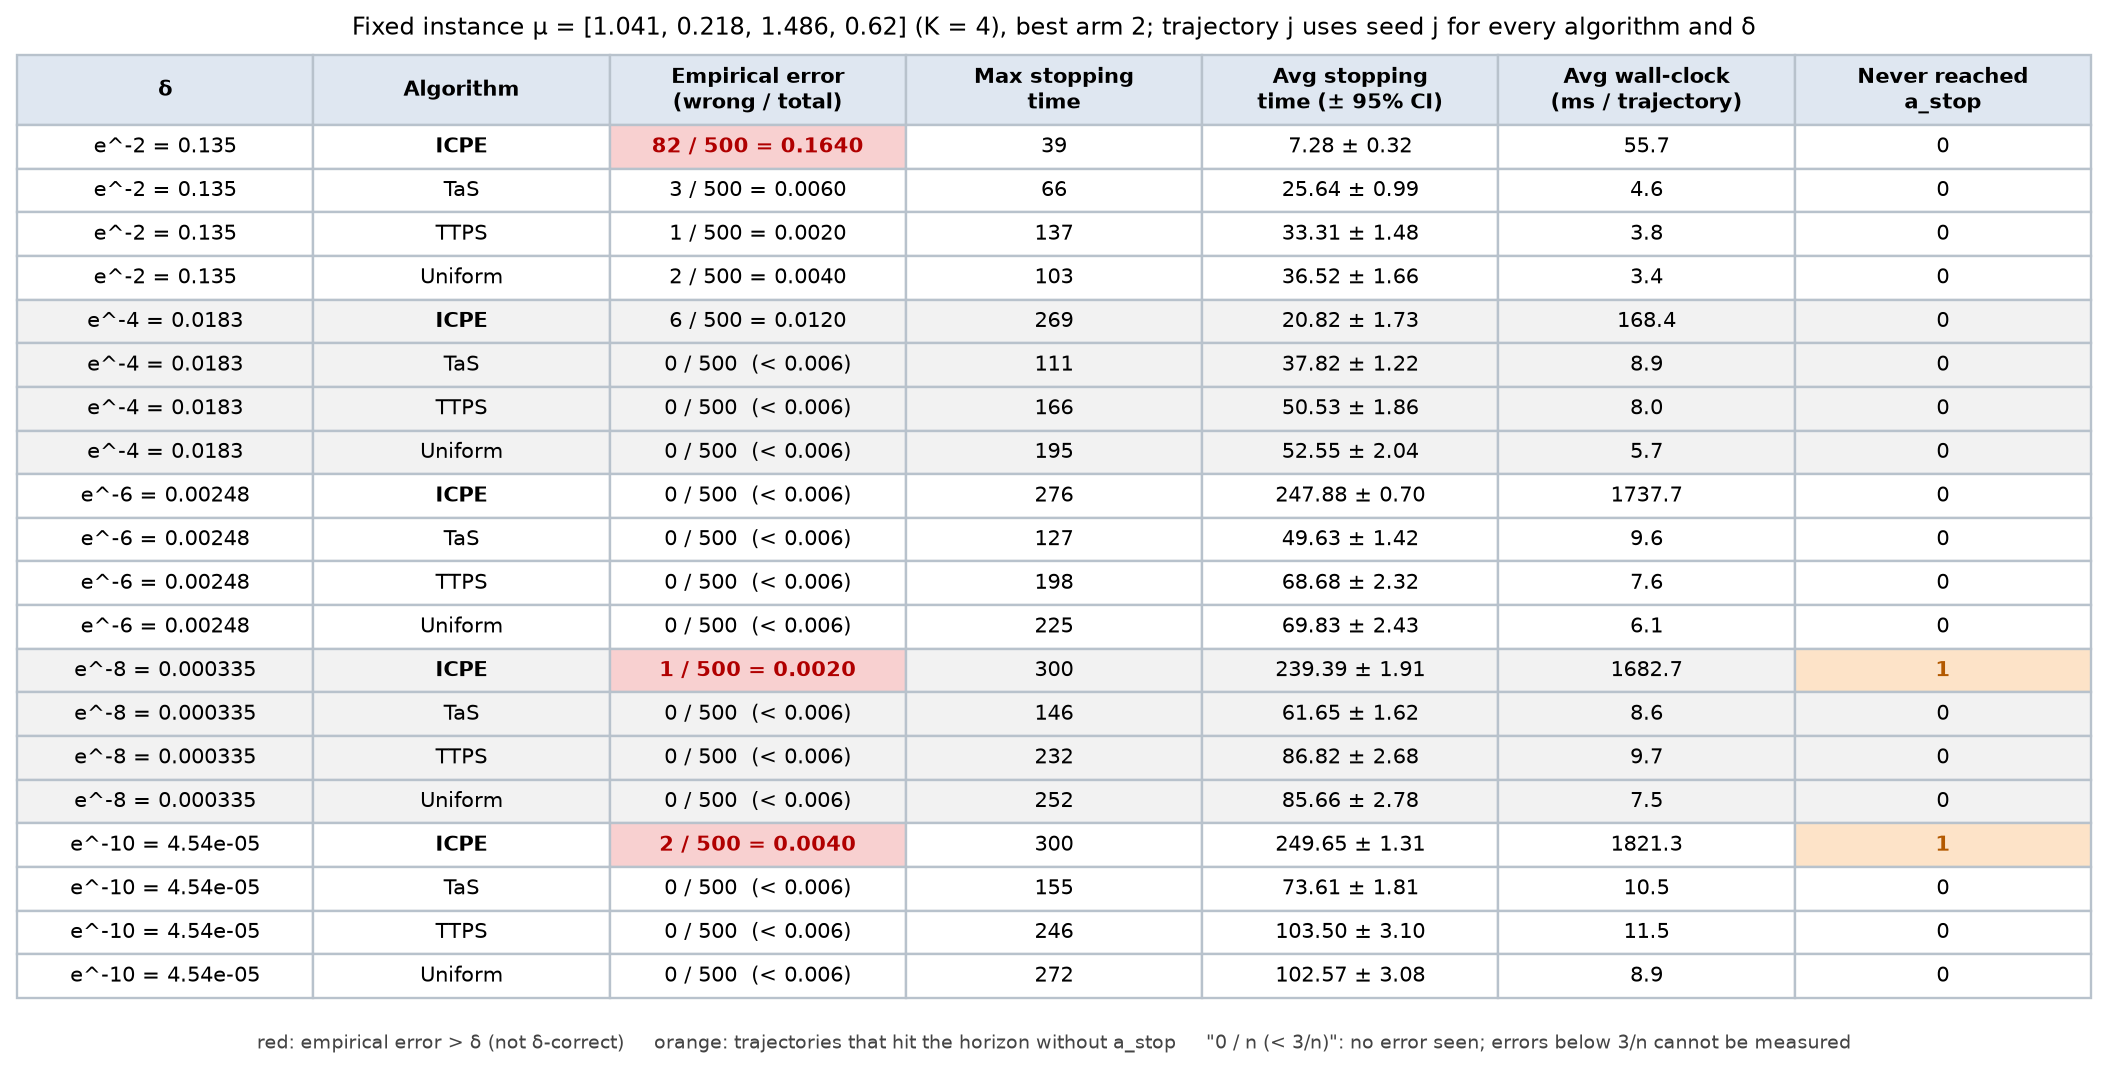
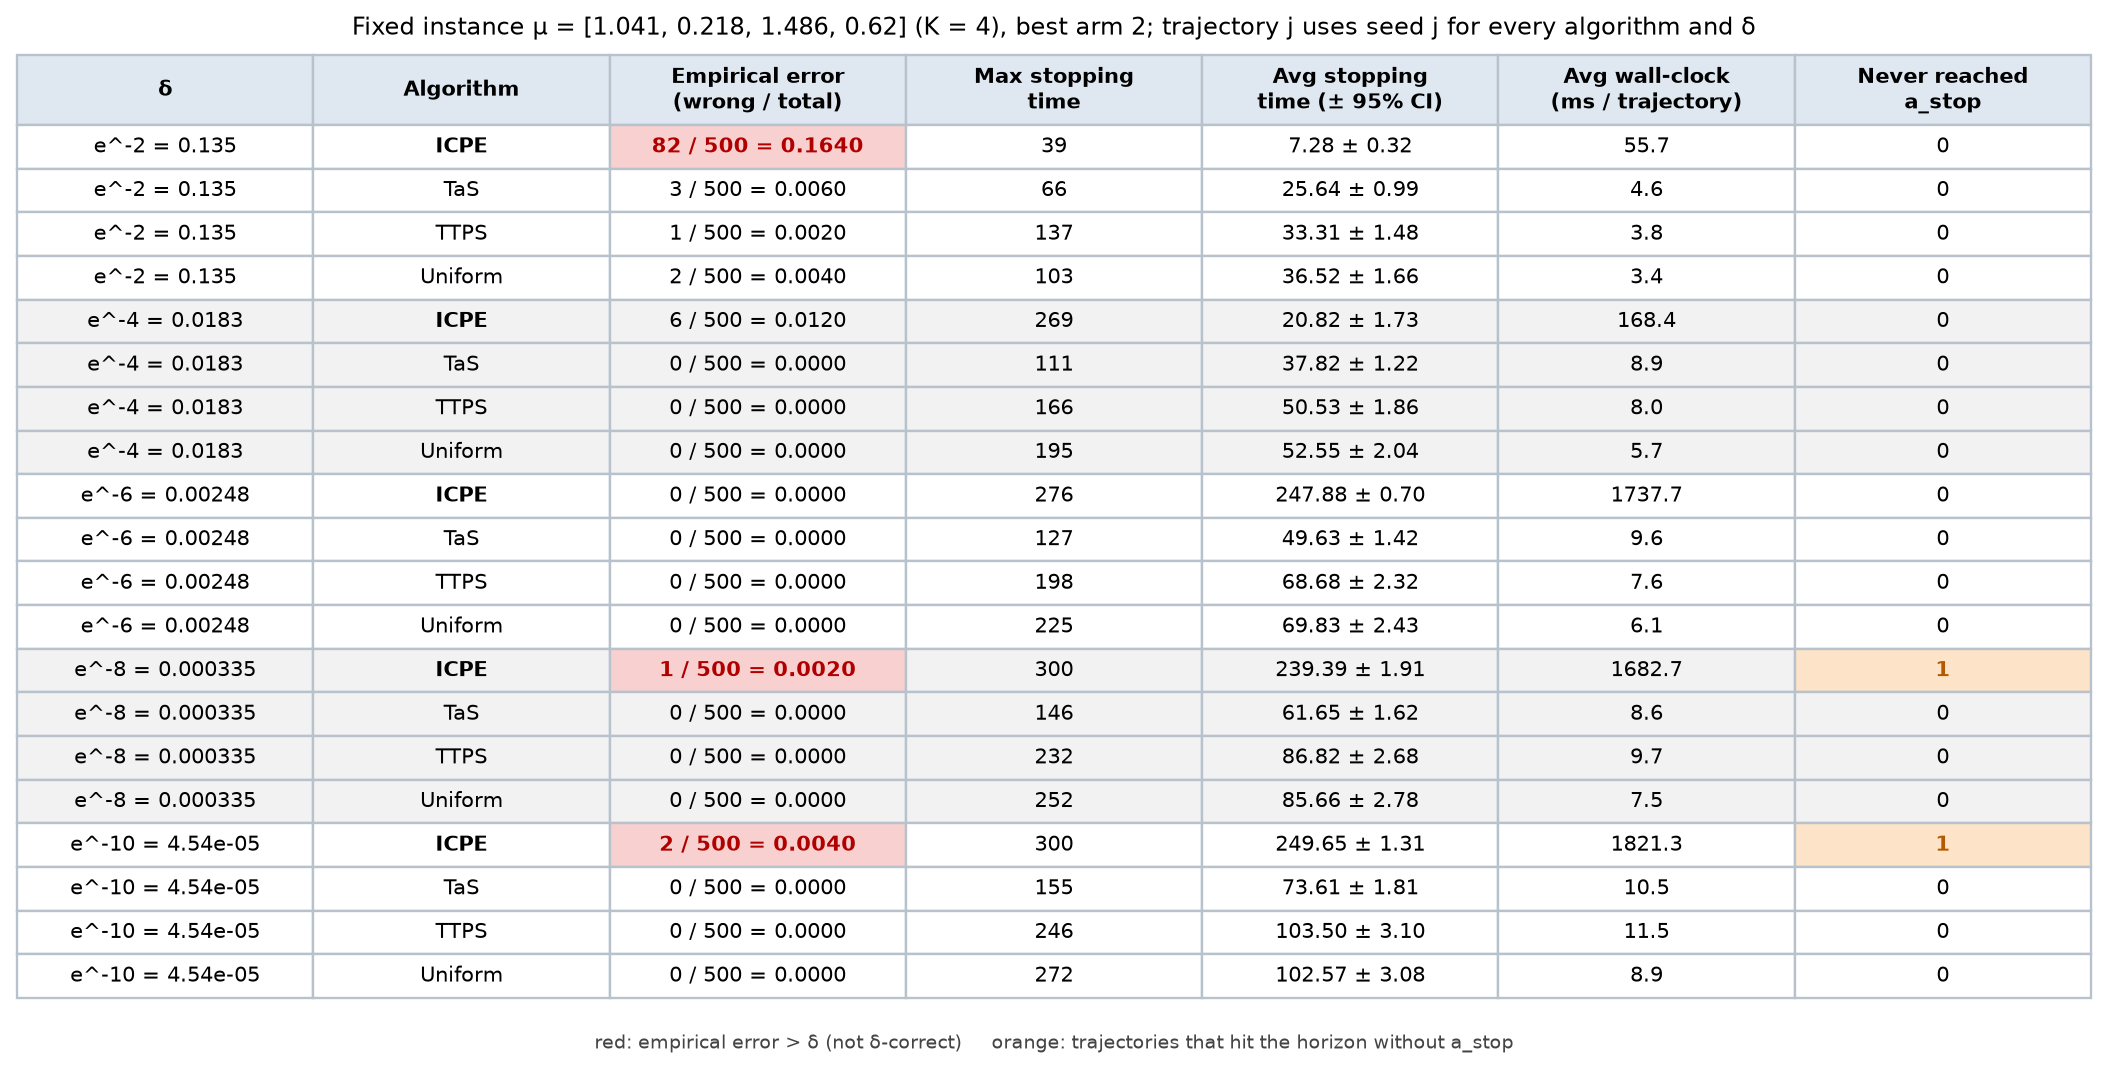
Results table PNG: plain error counts

diff --git a/make_results_png.py b/make_results_png.py
@@ -7,7 +7,6 @@ Reads <dir>/summary.csv and <dir>/environment.json (written by eval_fixed_instan
 number of trajectories that never reached a_stop.
   red    : empirical error > delta  (not delta-correct on this instance)
   orange : trajectories that never reached a_stop (stopped by the horizon N instead)
-A 0 error is shown as "0 (< 3/n)": with n trajectories an error below 3/n cannot be measured.
 
 Usage: python make_results_png.py [--dir runs_delta_sweep/fixed_instance]
 """
@@ -43,7 +42,7 @@ def main():
         wrong = int(round(r.error_prob * n))
         x = r.log_inv_delta
         dlt = '1' if x == 0 else f'e^-{x:g} = {math.exp(-x):.3g}'
-        err = f'{wrong} / {n} = {r.error_prob:.4f}' if wrong else f'0 / {n}  (< {3 / n:.3f})'
+        err = f'{wrong} / {n} = {r.error_prob:.4f}'
         rows.append([dlt, r.algo, err, f'{int(r.max_tau)}', f'{r.avg_tau:.2f} ± {r.tau_ci95:.2f}',
                      f'{r.avg_wall_ms:.1f}', f'{int(r.not_stopped)}'])
         base = 'white' if int(x) % 4 == 2 else GREY          # alternate shading per delta
@@ -77,7 +76,7 @@ def main():
     ax.set_title(f'Fixed instance μ = {mu} (K = {env["num_arms"]}), best arm {env["best_arm"]}; '
                  f'trajectory j uses seed j for every algorithm and δ', fontsize=10, pad=14)
     fig.text(0.5, 0.012, 'red: empirical error > δ (not δ-correct)     orange: trajectories that hit the horizon '
-             'without a_stop     "0 / n (< 3/n)": no error seen; errors below 3/n cannot be measured',
+             'without a_stop',
              ha='center', fontsize=8, color='#444')
     fig.tight_layout(rect=(0, 0.035, 1, 0.955))
     out = os.path.join(a.dir, 'results_table.png')
